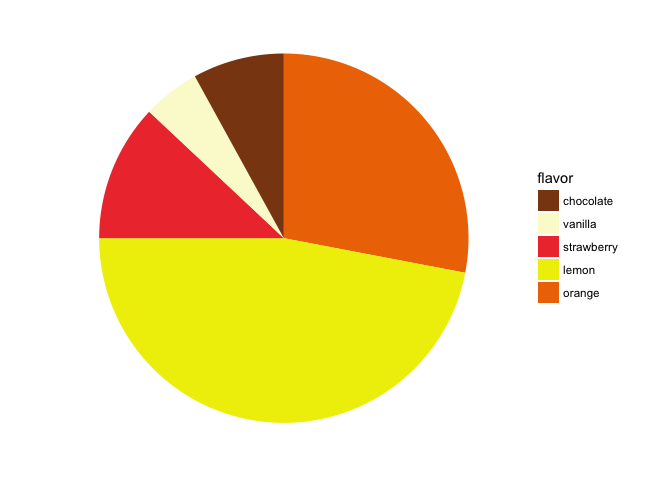
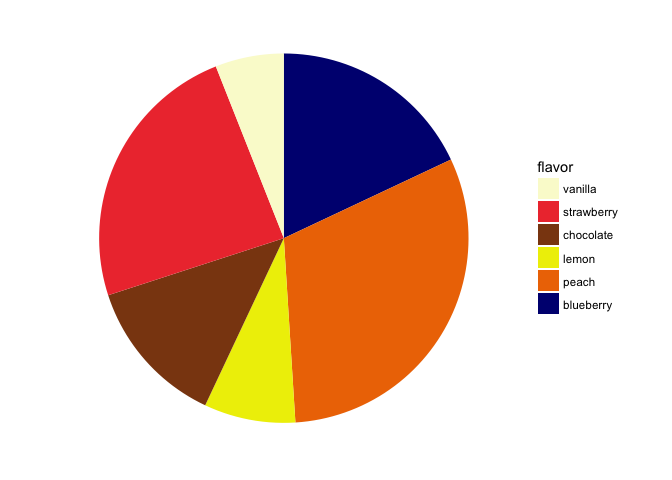
Some changes. Cleaning

Changed region(s): [[0.125, 0.0938, 0.6875, 0.9062], [0.7812, 0.3438, 0.9375, 0.6562]]

diff --git a/Five_Six.md b/Five_Six.md
@@ -20,6 +20,7 @@ blank_theme <- theme_minimal()+
 # Function to create  pie
 pie_function <- function(df, order, color_baseline, flavor) {
   
+  # Factor (the first thing is the input, the order is in the second)
   df$flavor <- factor(df$flavor, flavor[order])
   color_array <- color_baseline[order]
   
@@ -34,21 +35,32 @@ pie_function <- function(df, order, color_baseline, flavor) {
 }
 ```
 
+5. Sum of slices
+================
+
+Question: Which proportion of customers buy chocolate or vanilla?
+
+Intuition: the distance among two slices might affect the ability to sum quantities
+
 ``` r
-flavor <- c('vanilla','chocolate','strawberry', 'lemon', 'orange')
-number <- c(10, 20, 18, 22, 30)
-order_1 = c(1,2,3,4,5)
-order_2 = c(2,1,3,4,5)
-order_3 = c(3,2,1,4,5)
-order_4 = c(4,2,3,1,5)
+order_1 = c(1,2,3,4,5,6)
+order_2 = c(1,3,2,4,5,6)
+order_3 = c(1,3,4,2,5,6)
+order_4 = c(1,3,4,5,2,6)
+order_5 = c(1,3,4,5,6,2)
 
-five_df <- data.frame(flavor, number)
-# Factor (the first thing is the input, the order is in the second)
-
-color_baseline = c("lightgoldenrodyellow", "chocolate4", "brown2", "yellow2", "darkorange2")
+color_baseline = c("lightgoldenrodyellow", "chocolate4", "brown2", "yellow2", "darkorange2", "navy")
 ```
 
+5.1 Sample 1: similar slice size
+--------------------------------
+
 ``` r
+flavor <- c('vanilla','chocolate','strawberry', 'lemon', 'peach', 'blueberry')
+# number <- c(10, 20, 18, 22, 30)
+number <- c(9, 16, 20, 24, 18, 13)
+five_df <- data.frame(flavor, number)
+
 pie_function(five_df, order_1, color_baseline, flavor)
 ```
 
@@ -73,7 +85,14 @@ pie_function(five_df, order_4, color_baseline, flavor)
 ![](Five_Six_files/figure-markdown_github/unnamed-chunk-4-4.png)
 
 ``` r
-number <- c(5,8,12,47,28)
+pie_function(five_df, order_5, color_baseline, flavor)
+```
+
+![](Five_Six_files/figure-markdown_github/unnamed-chunk-4-5.png) \#\# 5.2 Sample 2: different slice sizes
+
+``` r
+# number <- c(5,8,12,47,28)
+number <- c(6, 13, 24, 8, 31, 18)
 five_df_2 <- data.frame(flavor, number)
 
 pie_function(five_df_2, order_1, color_baseline, flavor)
@@ -100,87 +119,51 @@ pie_function(five_df_2, order_4, color_baseline, flavor)
 ![](Five_Six_files/figure-markdown_github/unnamed-chunk-5-4.png)
 
 ``` r
-flavor <- c('vanilla','chocolate','strawberry', 'lemon', 'orange')
-number <- c(10, 20, 18, 22, 30)
+pie_function(five_df_2, order_5, color_baseline, flavor)
+```
+
+![](Five_Six_files/figure-markdown_github/unnamed-chunk-5-5.png)
+
+6. Prior ideas about colors might change perception
+===================================================
+
+Question: Which is the proportion of customers who buy vanilla?
+
+Intuition: Ideas about the correctness of color labeling might affect comprehension
+
+6.1 Only the color of the question is wrong
+-------------------------------------------
+
+``` r
+flavor <- c('vanilla','chocolate','strawberry', 'lemon', 'peach', 'blueberry')
+number <- c(9, 16, 20, 24, 18, 13)
 
 six_df <- data.frame(flavor, number)
-color_baseline_six = c("lightgoldenrodyellow", "chocolate4", "skyblue3", "yellow2", "darkorange2")
+color_baseline_six = c("paleturquoise1", "chocolate4", "brown2", "yellow2", "darkorange2", "navy")
 
 pie_function(six_df, order_1, color_baseline_six, flavor)
 ```
 
 ![](Five_Six_files/figure-markdown_github/unnamed-chunk-6-1.png)
 
-``` r
-pie_function(six_df, order_2, color_baseline_six, flavor)
-```
-
-![](Five_Six_files/figure-markdown_github/unnamed-chunk-6-2.png)
+6.2 Only the color of question is right
+---------------------------------------
 
 ``` r
-pie_function(six_df, order_3, color_baseline_six, flavor)
-```
+color_baseline_six_3 = c("lightgoldenrodyellow", "navy", "chocolate4", "brown2", "yellow2", "darkorange2")
 
-![](Five_Six_files/figure-markdown_github/unnamed-chunk-6-3.png)
-
-``` r
-pie_function(six_df, order_4, color_baseline_six, flavor)
-```
-
-![](Five_Six_files/figure-markdown_github/unnamed-chunk-6-4.png)
-
-``` r
-# flavor <- c('vanilla','chocolate','strawberry', 'lemon', 'orange')
-
-color_baseline_six_2 = c("chocolate4", "lightgoldenrodyellow", "yellow2", "darkorange2", "brown2")
-
-pie_function(six_df, order_1, color_baseline_six_2, flavor)
+pie_function(six_df, order_1, color_baseline_six_3, flavor)
 ```
 
 ![](Five_Six_files/figure-markdown_github/unnamed-chunk-7-1.png)
 
-``` r
-pie_function(six_df, order_2, color_baseline_six_2, flavor)
-```
-
-![](Five_Six_files/figure-markdown_github/unnamed-chunk-7-2.png)
+6.3 All colors are wrong
+------------------------
 
 ``` r
-pie_function(six_df, order_3, color_baseline_six_2, flavor)
-```
+color_baseline_six_2 = c("chocolate4", "lightgoldenrodyellow", "navy", "brown2", "yellow2", "darkorange2")
 
-![](Five_Six_files/figure-markdown_github/unnamed-chunk-7-3.png)
-
-``` r
-pie_function(six_df, order_4, color_baseline_six_2, flavor)
-```
-
-![](Five_Six_files/figure-markdown_github/unnamed-chunk-7-4.png)
-
-``` r
-flavor <- c('mint','chocolate','strawberry', 'lemon', 'orange')
-six_df_3 <- data.frame(flavor, number)
-color_baseline_six_3 = c("cornflowerblue", "lightgoldenrodyellow", "yellow2", "darkorange2", "brown2")
-
-pie_function(six_df_3, order_1, color_baseline_six_3, flavor)
+pie_function(six_df, order_1, color_baseline_six_2, flavor)
 ```
 
 ![](Five_Six_files/figure-markdown_github/unnamed-chunk-8-1.png)
-
-``` r
-pie_function(six_df_3, order_2, color_baseline_six_3, flavor)
-```
-
-![](Five_Six_files/figure-markdown_github/unnamed-chunk-8-2.png)
-
-``` r
-pie_function(six_df_3, order_3, color_baseline_six_3, flavor)
-```
-
-![](Five_Six_files/figure-markdown_github/unnamed-chunk-8-3.png)
-
-``` r
-pie_function(six_df_3, order_4, color_baseline_six_3, flavor)
-```
-
-![](Five_Six_files/figure-markdown_github/unnamed-chunk-8-4.png)
